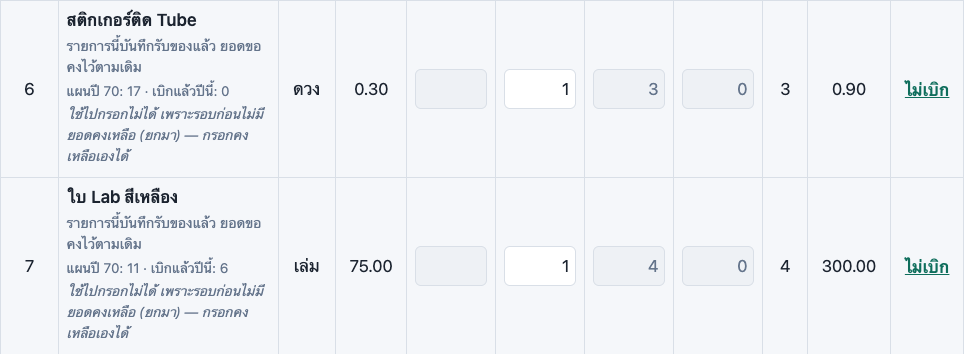
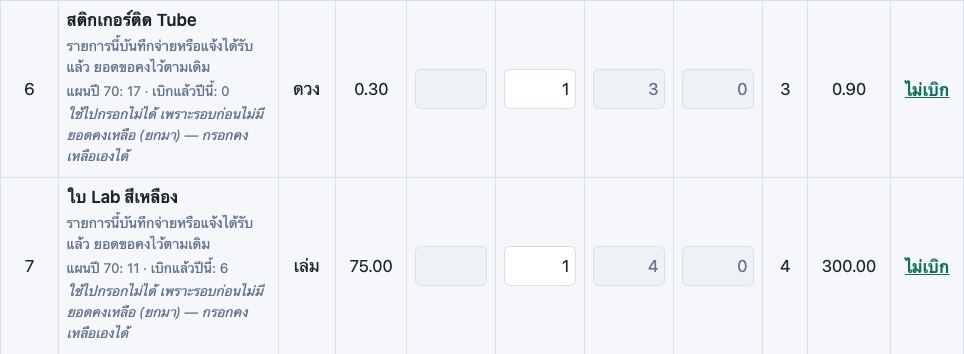
PCU 2ak P1: A8 lock wording covers both a recorded issue and a PCU received report

Changed region(s): [[0.0622, 0.0932, 0.2801, 0.2175], [0.0622, 0.5904, 0.2801, 0.7147]]

diff --git a/public/help/manual_pcu.js b/public/help/manual_pcu.js
@@ -286,10 +286,10 @@ export default [
         ],
       },
       {
-        img: "flags_2.png", alt: "แถวที่ล็อกยอดขอหลังบันทึกรับของ",
+        img: "flags_2.png", alt: "แถวที่ล็อกยอดขอหลังบันทึกจ่ายหรือแจ้งได้รับ",
         marks: [{ n: 1, sel_key: "locked" }],
         steps: [
-          "① \"รายการนี้บันทึกรับของแล้ว ยอดขอคงไว้ตามเดิม\" — เมื่อรายการหนึ่งมีบันทึกการจ่าย/รับของแล้ว ช่องยอดขอ OP/PP ของรายการนั้นแก้ไม่ได้ (คงเหลือ/ใช้ไปยังแก้ได้) · รายการอื่นในหน้าเดียวกันยังแก้ได้ตามปกติ",
+          "① \"รายการนี้บันทึกจ่ายหรือแจ้งได้รับแล้ว ยอดขอคงไว้ตามเดิม\" — เมื่อผู้จ่ายบันทึกจ่ายรายการนั้นแล้ว หรือ รพ.สต. แจ้งได้รับรายการนั้นแล้ว (หน้ารายงานของได้จริง) ช่องยอดขอ OP/PP ของรายการนั้นแก้ไม่ได้ (คงเหลือ/ใช้ไปยังแก้ได้) · รายการอื่นในหน้าเดียวกันยังแก้ได้ตามปกติ",
           "🔒 \"ล็อกรายการตั้งแต่รอบขอเบิก … — ถ้าต้องการเบิก ติดต่อ admin\" — รายการที่ผู้ดูแลล็อก กรอกยอดขอไม่ได้ (คงเหลือยังกรอกได้) · ผู้ดูแลปลดให้ รพ.สต. รายแห่งได้",
         ],
       },

diff --git a/public/js/pages/fill.js b/public/js/pages/fill.js
@@ -78,9 +78,9 @@ function applyIssueRefresh(app, month, d) {
   else if (app.older && app.older[month]) app.older[month].issue = d.issue || null;
 }
 
-// 2ad: the requested quantity of a line whose issue is recorded stays as it is (server: views.lineQtyLocked → line.qty_locked);
-// คงเหลือ / ใช้ไป / ปรับยอด and every other line stay editable until the round closes.
-const QTY_LOCKED_TEXT = "รายการนี้บันทึกรับของแล้ว ยอดขอคงไว้ตามเดิม";
+// 2ad: the requested quantity of a line whose issue is recorded — or (2af) whose receipt the PCU reported — stays as it is
+// (server: views.lineQtyLocked → line.qty_locked); คงเหลือ / ใช้ไป / ปรับยอด and every other line stay editable until the round closes.
+const QTY_LOCKED_TEXT = "รายการนี้บันทึกจ่ายหรือแจ้งได้รับแล้ว ยอดขอคงไว้ตามเดิม";
 function qtyLocked(app, month, code) {
   return !!sync.getLine(pcuCode(app), month, code).qty_locked;
 }

diff --git a/functions/_lib/pcu.js b/functions/_lib/pcu.js
@@ -344,7 +344,7 @@ export async function saveLines(ctx, p) {
     }
   }
   if (qtyLocked.length) {
-    throw err("LINE_LOCKED", "รายการนี้บันทึกรับของแล้ว ยอดขอคงไว้ตามเดิม (แก้คงเหลือ/ใช้ไปได้)", { items: qtyLocked });
+    throw err("LINE_LOCKED", "รายการนี้บันทึกจ่ายหรือแจ้งได้รับแล้ว ยอดขอคงไว้ตามเดิม (แก้คงเหลือ/ใช้ไปได้)", { items: qtyLocked });
   }
   if (cancelled.length) throw err("ITEM_CANCELLED", "รายการนี้ยกเลิกถาวรแล้ว ขอเพิ่มไม่ได้", { items: cancelled });
   if (itemLocked.length) throw err("ITEM_LOCKED", "รายการนี้ถูกล็อก ขอเบิกไม่ได้ — ถ้าต้องการเบิก ติดต่อ admin", { items: itemLocked });

diff --git a/functions/API.md b/functions/API.md
@@ -93,7 +93,7 @@ Nothing is reserved any more: 2b PDF, 2c issuing, 2d form editor and 2e fiscal-y
 - **2ad per-line rules** (replace the 2c issued-page lock — a page whose unit is issued stays fully editable; checked on every call, before any write;
   a line counts only when its `op`/`pp` differ from the stored line, so re-sending the stored quantity with a new `stock`/`used` is fine):
   - line with a recorded issue (`issued_total` not null) **or a PCU received report (2af, `received_reports` row)** — `views.lineQtyLocked` → `LINE_LOCKED{items:[{code,op,pp}]}`
-    "รายการนี้บันทึกรับของแล้ว ยอดขอคงไว้ตามเดิม (แก้คงเหลือ/ใช้ไปได้)" (`op`/`pp` = the stored values). `stock`, `used`, `adj`, `adj_reason`, `calc_from` stay editable.
+    "รายการนี้บันทึกจ่ายหรือแจ้งได้รับแล้ว ยอดขอคงไว้ตามเดิม (แก้คงเหลือ/ใช้ไปได้)" (`op`/`pp` = the stored values). `stock`, `used`, `adj`, `adj_reason`, `calc_from` stay editable.
   - item with `active:false` in the latest form of the round's fy (= cancelled for good) and `op+pp > 0` → `ITEM_CANCELLED{items:[{code,op,pp}]}`
     "รายการนี้ยกเลิกถาวรแล้ว ขอเพิ่มไม่ได้" (lowering it to 0 / null is allowed).
   - **2ai**: item locked by the admin for this PCU and month (`item_locks.from_month <= month`, no `item_lock_exempt` row for the pcu) and `op` or `pp` raised
@@ -199,8 +199,8 @@ RequestObj = { id, pcu, month, status, form_version_id|null, submitter_name, las
                no_order:bool,         // 2af: "เดือนนี้ไม่เบิก" (status 'submitted', no requested line)
                mismatch_count:int,    // 2af: lines with mismatch:true (PCU view: against issues of done units only; admin: against issued_total)
                lines: { code: {stock,op,pp,used,adj,adj_reason,calc_from,updated_at} },   // 2o: used/adj/adj_reason/calc_from (null when unset), PCU + admin views
-                                                                   // 2ad: PCU view adds qty_locked:true on a line whose issue is recorded (op/pp read-only, saveLines LINE_LOCKED)
-                                                                   //      2af: … or whose received qty the PCU reported
+                                                                   // 2ad/2af: PCU view adds qty_locked:true on a line whose issue is recorded OR whose received qty the PCU
+                                                                   //      reported (views.lineQtyLocked · op/pp read-only, saveLines LINE_LOCKED "…บันทึกจ่ายหรือแจ้งได้รับแล้ว…")
                                                                    // 2af (PCU + admin views) — present ONLY when the PCU reported the line (absent = not reported ≠ 0):
                                                                    //   rcv_qty:int, rcv_date:"YYYY-MM-DD", rcv_note|null, rcv_at (iso) · admin view + rcv_by (pcu code)
                                                                    //   mismatch:bool — only when an issue figure exists to compare (admin: issued_total not null ·
